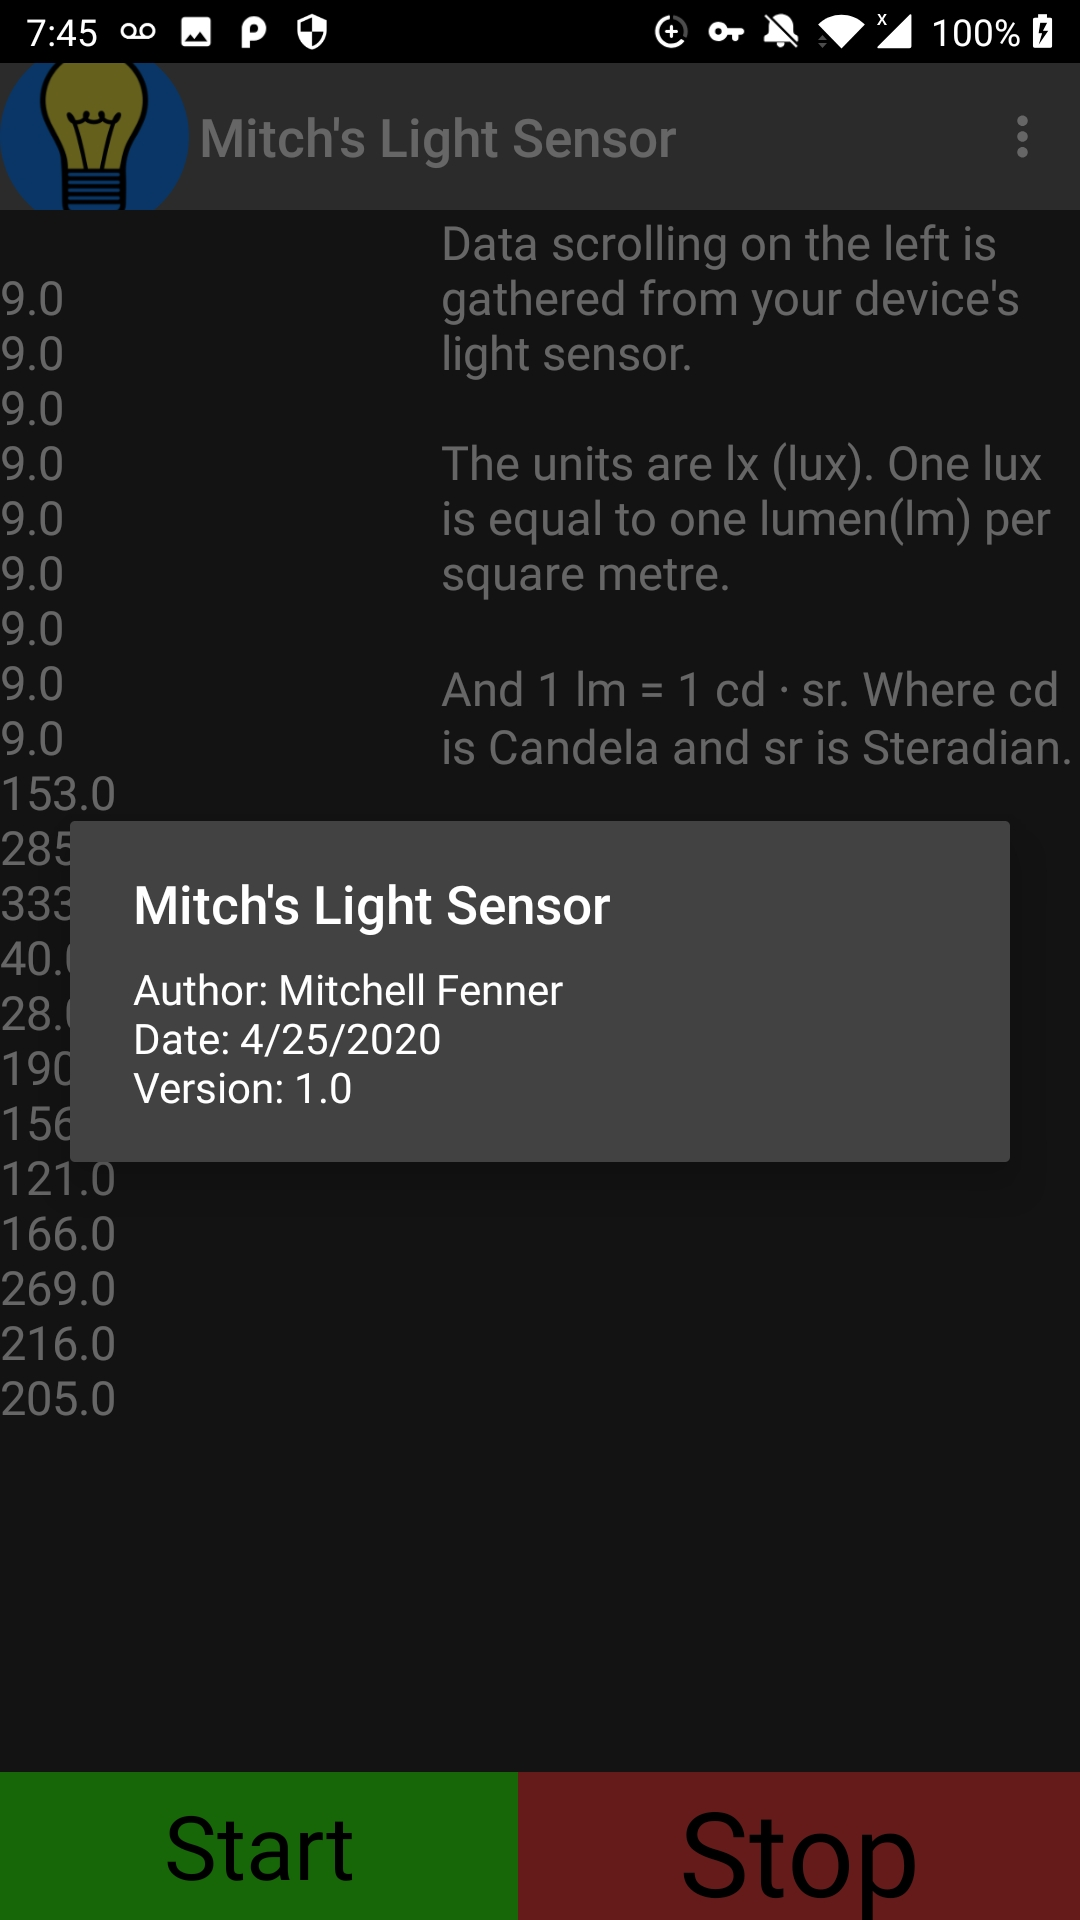
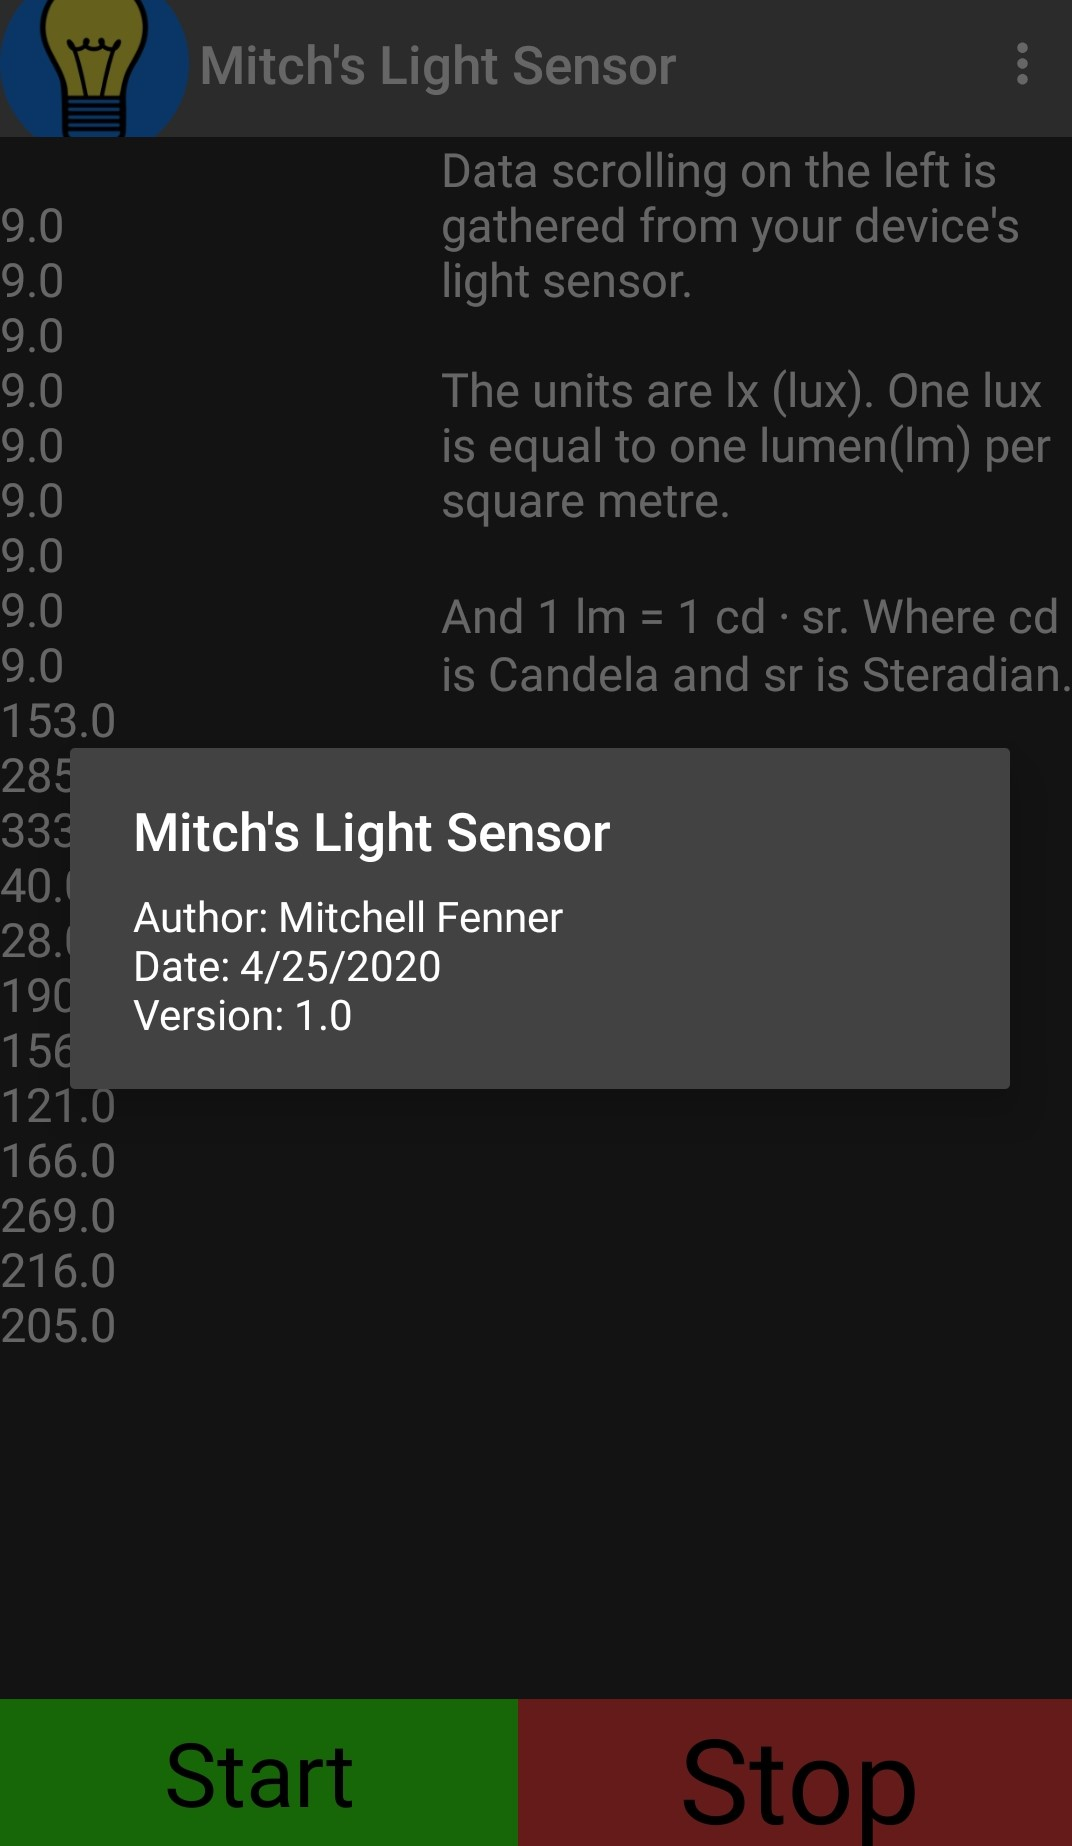
Better screenshots, better readme

diff --git a/README.md b/README.md
@@ -1,5 +1,14 @@
-# Android Light Sensing App
+# Mitch's Light Sensor
+
+### Overview
 Basic app that reads light sensor on a timer.  
+It also writes sensor data to a txt file.
 Aren't light units fascinating?  
   
+### Installation
+Clone this repository and open, and build in Android Studio.  
+Note that I used a linear layout and 5.5" screen for my tests, so it may look wrong on different sized devices.
+
+
+### Screen
 <img src="https://github.com/mitchfen/Android_Light_Sensing_App/blob/master/screenshots/screen3.jpg" width = 250 height = 450>
